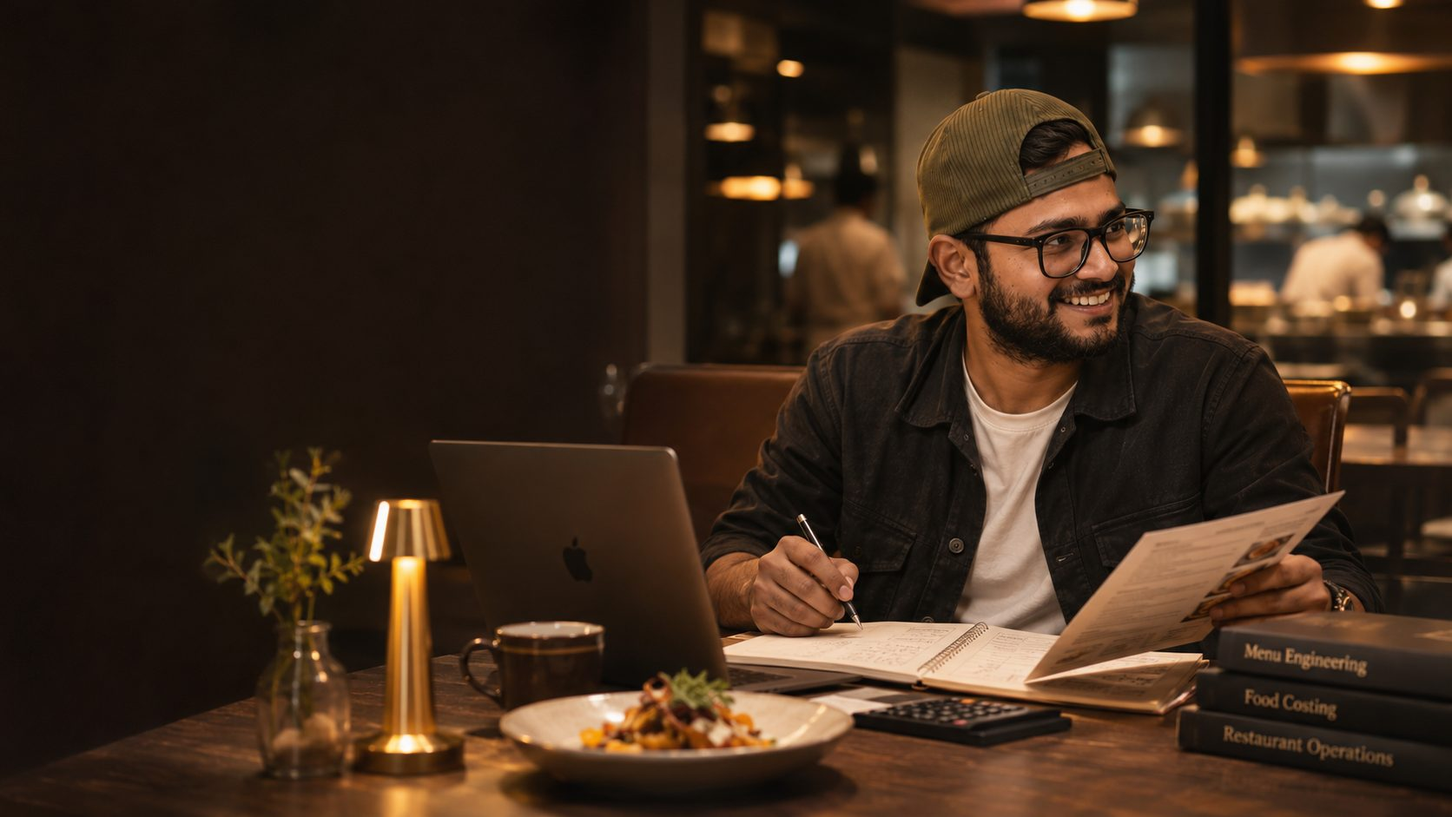
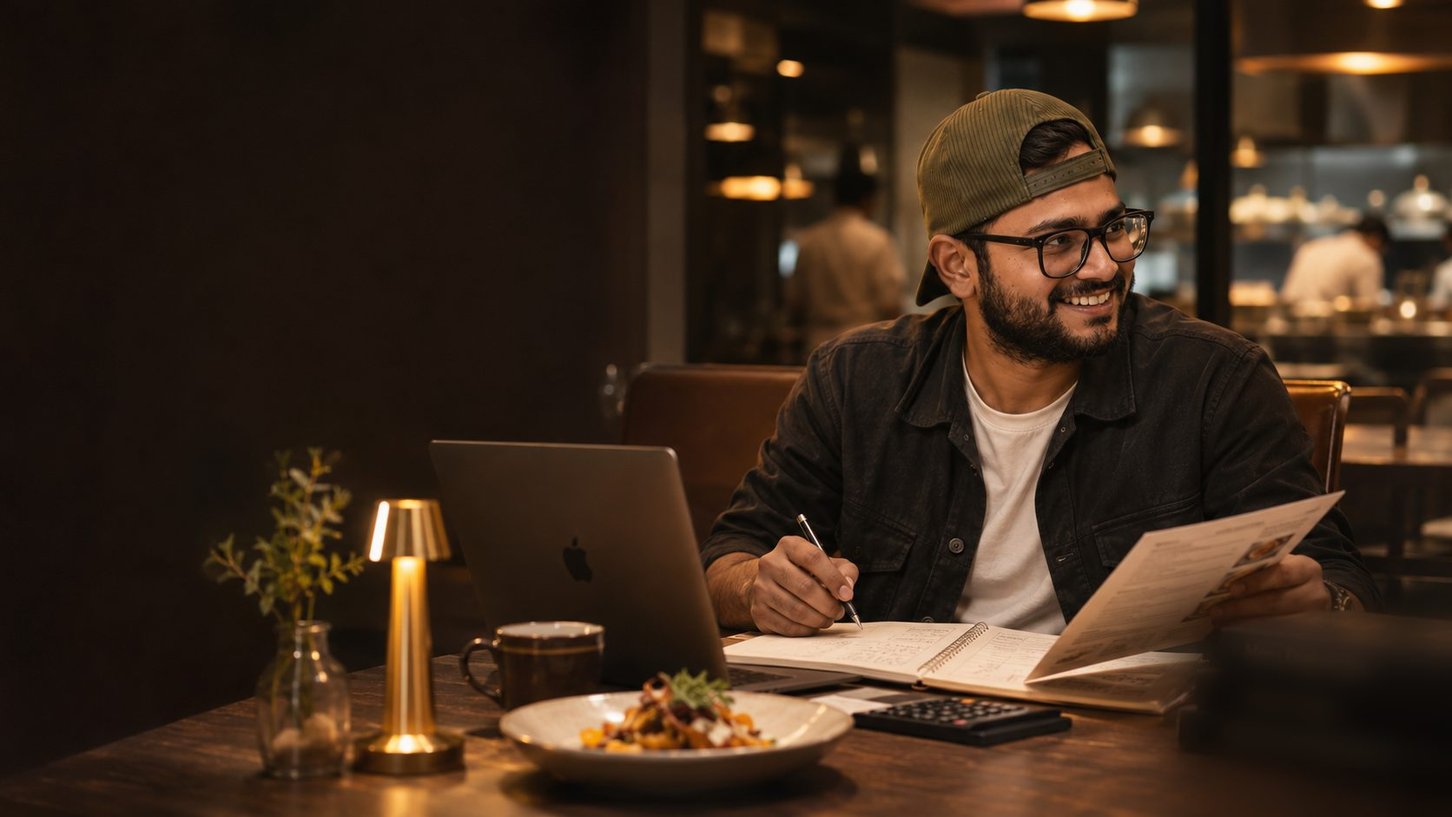
home-v2: final refinement — X-ray illustration, Lenis, tighter copy
- Animated 'menu X-ray' illustration: scan line reads a menu and each dish
  moves into its matrix quadrant; plays once, replay button, static for
  reduced motion
- Lenis 1.3.27 (self-hosted): wheel smoothing only, touch native, off for
  prefers-reduced-motion, anchors respect the sticky header
- Once-only scroll reveals and a drawn line through the audit steps
- Hero: one-sentence intro, lighter overlay on the founder, book spines
  softened in the image; phones stack the photo above the text
- Copy shortened across audit, pricing and FAQ, keeping every disclaimer
- Internal changelog moved out of the public site

Claude-Session: https://claude.ai/code/session_01U5BBhQsZ4QTMWnBKWSbrBi

Changed region(s): [[0.7775, 0.678, 1.0, 1.0], [0.9952, 0.8629, 1.0, 0.8937]]

diff --git a/home-v2/index.html b/home-v2/index.html
@@ -18,7 +18,8 @@
 :root{--bg:#f3eee6;--bg2:#ebe4d8;--paper:#faf7f2;--ink:#1c1915;--night:#171411;--muted:#6a6157;--line:rgba(28,25,21,.14);--brass:#946f3e;--brass-l:#d2b487;--gain:#1E3027;--leak:#A65E49;
   --serif:"Newsreader",Georgia,serif;--sans:"Instrument Sans",system-ui,-apple-system,"Segoe UI",sans-serif}
 *{box-sizing:border-box}
-html{scroll-behavior:smooth;-webkit-text-size-adjust:100%}
+html{scroll-behavior:smooth;scroll-padding-top:76px;-webkit-text-size-adjust:100%}
+html.lenis,html.lenis body{height:auto}.lenis.lenis-smooth{scroll-behavior:auto!important}.lenis.lenis-stopped{overflow:clip}
 body{margin:0;background:var(--bg);color:var(--ink);font:400 16px/1.6 var(--sans);-webkit-font-smoothing:antialiased}
 a{color:inherit}img{max-width:100%;display:block;height:auto}
 h1,h2,h3{font-family:var(--serif);font-weight:300;letter-spacing:-.02em;margin:0}
@@ -47,8 +48,8 @@ section{padding:112px 0}
 /* hero */
 .hero{padding:0;position:relative;overflow:hidden;background:var(--night);color:var(--bg);min-height:min(88vh,820px);display:flex;align-items:flex-end}
 .hero picture,.hero picture img{position:absolute;inset:0;width:100%;height:100%;object-fit:cover;object-position:70% 30%}
-.hero picture img{filter:brightness(.82) saturate(.78);transform:scale(1.012)}
-.hero::after{content:"";position:absolute;inset:0;background:linear-gradient(90deg,rgba(23,20,17,.94) 0%,rgba(23,20,17,.82) 45%,rgba(23,20,17,.42) 100%),linear-gradient(0deg,rgba(23,20,17,.78),rgba(23,20,17,.10) 58%,rgba(23,20,17,.18) 100%)}
+.hero picture img{filter:brightness(.9) saturate(.88)}
+.hero::after{content:"";position:absolute;inset:0;background:radial-gradient(ellipse 38% 42% at 100% 100%,rgba(23,20,17,.92),rgba(23,20,17,0) 100%),linear-gradient(90deg,rgba(23,20,17,.93) 0%,rgba(23,20,17,.78) 40%,rgba(23,20,17,.18) 72%,rgba(23,20,17,.05) 100%),linear-gradient(0deg,rgba(23,20,17,.72),rgba(23,20,17,0) 40%)}
 .hero .wrap{position:relative;z-index:1;padding-top:120px;padding-bottom:72px;width:100%}
 .hero .label{color:var(--brass-l)}
 .hero h1{font-size:clamp(46px,6.4vw,92px);line-height:.98;margin:22px 0 0;max-width:12ch}
@@ -152,6 +153,37 @@ footer nav{display:flex;gap:22px;flex-wrap:wrap}
 footer a{color:#cfc6ba;text-decoration:none}footer a:hover{color:var(--bg)}
 
 .mcta{display:none}
+
+/* X-ray illustration */
+.xr{margin:0}
+.xr svg{width:100%;height:auto;display:block;overflow:visible}
+.xr .t-k{font:600 9px/1 var(--sans);letter-spacing:.24em;fill:#6a6157}
+.xr .t-d{font:400 13px/1 var(--serif);fill:#1c1915}
+.xr .t-p{font:500 11px/1 var(--sans);fill:#6a6157;font-variant-numeric:tabular-nums}
+.xr .t-ax{font:600 8.5px/1 var(--sans);letter-spacing:.2em;fill:#6a6157}
+.xr .t-q{font:600 9.5px/1 var(--sans);letter-spacing:.2em}
+.xr .t-a{font:italic 400 12px/1 var(--serif);fill:#6a6157}
+.xr .scan{transform:translateY(22px);opacity:0}
+.xr.run .scan{opacity:1;animation:xrScan 2.6s cubic-bezier(.45,0,.35,1) forwards}
+@keyframes xrScan{from{transform:translateY(22px)}to{transform:translateY(418px)}}
+.xr .tick{opacity:0;transition:opacity .3s}
+.xr .tick.on{opacity:1}
+.xr .dot{opacity:0;transition:transform .95s cubic-bezier(.65,0,.25,1),opacity .25s}
+.xr .dot.on{opacity:1}
+.xr .ql text,.xr .qb{opacity:.0;transition:opacity .6s}
+.xr.done .ql text{opacity:1}.xr.done .qb{opacity:1}
+.xr figcaption{font-size:12px;color:var(--muted);margin-top:12px;display:flex;justify-content:space-between;gap:12px}
+.replay{all:unset;cursor:pointer;font:600 10px/1 var(--sans);letter-spacing:.16em;text-transform:uppercase;color:var(--ink);border-bottom:1px solid var(--line);padding-bottom:3px}
+.replay:focus-visible{outline:2px solid var(--brass);outline-offset:3px}
+
+/* reveal on scroll: once, subtle, below the hero only */
+.js .rv{opacity:0;transform:translateY(14px);transition:opacity .6s ease,transform .6s cubic-bezier(.2,.7,.2,1)}
+.js .rv.in{opacity:1;transform:none}
+.js .flow>div{border-top-color:transparent;position:relative}
+.js .flow>div::before{content:"";position:absolute;left:0;right:0;top:-1px;height:1px;background:var(--ink);transform:scaleX(0);transform-origin:left;transition:transform .9s cubic-bezier(.65,0,.25,1)}
+.js .flow.in>div::before{transform:scaleX(1)}
+.js .flow.in>div:nth-child(2)::before{transition-delay:.25s}.js .flow.in>div:nth-child(3)::before{transition-delay:.5s}
+@media (prefers-reduced-motion:reduce){.js .rv{opacity:1;transform:none}.js .flow>div::before{transform:none}.xr .scan{display:none}.xr .dot,.xr .tick,.xr .ql text,.xr .qb{opacity:1!important;transition:none}}
 @media (max-width:960px){
   section{padding:80px 0}
   .matrix .wrap,.audit .top,.changes,.founder .wrap,.close .wrap{grid-template-columns:1fr;gap:44px}
@@ -163,9 +195,12 @@ footer a{color:#cfc6ba;text-decoration:none}footer a:hover{color:var(--bg)}
 }
 @media (max-width:600px){
   .wrap{padding:0 16px}
-  .hero{min-height:auto}
-  .hero::after{background:linear-gradient(0deg,rgba(23,20,17,.97) 25%,rgba(23,20,17,.82) 72%,rgba(23,20,17,.58) 100%)}
-  .hero .wrap{padding-top:200px;padding-bottom:48px}
+  .hero{min-height:0;display:block}
+  .hero picture{position:relative;display:block;height:auto}
+  .hero picture img{position:relative;height:auto;aspect-ratio:1/1;object-position:62% 32%;filter:none}
+  .hero::after{inset:0 0 auto 0;height:100vw;background:linear-gradient(0deg,#171411 0%,rgba(23,20,17,0) 42%)}
+  .hero .wrap{padding-top:0;margin-top:-64px;padding-bottom:48px}
+  .hero h1{font-size:44px}
   .hero .btn{width:100%}
   .trust{gap:10px 20px}
   .quad div{padding-right:12px}.quad div:nth-child(even){padding-left:12px}.quad b{font-size:19px}
@@ -179,6 +214,7 @@ footer a{color:#cfc6ba;text-decoration:none}footer a:hover{color:var(--bg)}
 </style>
 </head>
 <body>
+<script>document.documentElement.classList.add("js")</script>
 
 <header class="nav">
   <div class="wrap">
@@ -200,7 +236,7 @@ footer a{color:#cfc6ba;text-decoration:none}footer a:hover{color:var(--bg)}
     <div class="wrap">
       <span class="label">Chef-led menu profitability · Dubai, UAE</span>
       <h1>What sells isn't always what <em>earns.</em></h1>
-      <p>We help independent restaurants understand what each dish contributes, where margin is being lost and what to change next. Start with a free menu check. For a proper dish-by-dish profitability review, we work with your actual sales and recipe costs.</p>
+      <p>We show you which dishes earn, which only sell, and what to change next. Start with a free menu check.</p>
       <div class="ctas">
         <a class="btn light" href="../app/start">Get a free menu check <span aria-hidden="true">→</span></a>
         <a class="btn ghost" href="#audit">See the audit</a>
@@ -215,18 +251,40 @@ footer a{color:#cfc6ba;text-decoration:none}footer a:hover{color:var(--bg)}
       <div>
         <span class="label">The problem</span>
         <h2 class="h2">A bestseller can still be a <em>margin problem.</em></h2>
-        <p class="lede">Popularity and contribution are different measures. A dish can drive volume while leaving too little behind after its direct costs. With item-level sales and recipe data, we put both measures side by side and give each dish a clear commercial role.</p>
-        <div class="quad">
+        <p class="lede">Popularity and earnings are different numbers. A dish can sell all night and still leave too little after food cost. We plot both, so every dish gets a clear job.</p>
+        <div class="quad rv">
           <div><b>Stars</b><small>Popular and profitable.</small><i class="c-star">Protect</i></div>
           <div><b>Plowhorses</b><small>Popular, thin margin.</small><i class="c-plow">Re-cost</i></div>
           <div><b>Puzzles</b><small>Profitable, overlooked.</small><i class="c-puz">Promote</i></div>
           <div><b>Dogs</b><small>Neither.</small><i class="c-dog">Rework or retire</i></div>
         </div>
       </div>
-      <div class="plates">
-        <img src="../assets/img/plates-matrix.webp" width="1376" height="768" alt="Four plated dishes on linen arranged in a grid, representing the four kinds of dish." loading="lazy">
-        <span style="left:8%;top:8%">Puzzle</span><span style="right:8%;top:8%">Star</span><span style="left:8%;bottom:8%">Dog</span><span style="right:8%;bottom:8%">Plowhorse</span>
-      </div>
+      <figure class="xr" id="xr" aria-label="Illustration: a menu is scanned and each dish moves into one of four groups: Stars, Plowhorses, Puzzles and Dogs.">
+        <svg viewBox="0 0 600 440" role="img" aria-hidden="true">
+          <defs><linearGradient id="scanG" x1="0" y1="0" x2="0" y2="1"><stop offset="0" stop-color="#d2b487" stop-opacity="0"/><stop offset="1" stop-color="#d2b487" stop-opacity=".55"/></linearGradient><clipPath id="cardClip"><rect x="12" y="22" width="216" height="396"/></clipPath></defs>
+          <rect x="12" y="22" width="216" height="396" fill="#faf7f2" stroke="#1c1915" stroke-opacity=".18"/>
+          <text x="120" y="56" text-anchor="middle" class="t-k">DINNER MENU</text>
+          <line x1="40" y1="70" x2="200" y2="70" stroke="#1c1915" stroke-opacity=".14"/>
+          <g class="lines"></g>
+          <g clip-path="url(#cardClip)"><g class="scan"><rect x="12" y="-46" width="216" height="46" fill="url(#scanG)"/><line x1="12" y1="0" x2="228" y2="0" stroke="#946f3e" stroke-width="1.5"/></g></g>
+          <g class="grid">
+            <rect x="282" y="30" width="306" height="364" fill="none" stroke="#1c1915" stroke-opacity=".22"/>
+            <rect class="qb" x="282" y="30" width="153" height="182" fill="#3f5e75" fill-opacity=".06"/><rect class="qb" x="435" y="30" width="153" height="182" fill="#1E3027" fill-opacity=".07"/>
+            <rect class="qb" x="282" y="212" width="153" height="182" fill="#A65E49" fill-opacity=".06"/><rect class="qb" x="435" y="212" width="153" height="182" fill="#946f3e" fill-opacity=".07"/>
+            <line x1="435" y1="30" x2="435" y2="394" stroke="#1c1915" stroke-dasharray="3 4" stroke-opacity=".5"/><line x1="282" y1="212" x2="588" y2="212" stroke="#1c1915" stroke-dasharray="3 4" stroke-opacity=".5"/>
+            <text x="435" y="420" text-anchor="middle" class="t-ax">SELLS →</text>
+            <text transform="translate(268 212) rotate(-90)" text-anchor="middle" class="t-ax">EARNS PER DISH →</text>
+          </g>
+          <g class="ql">
+            <text x="294" y="52" class="t-q" fill="#3f5e75">PUZZLES</text><text x="294" y="68" class="t-a">Promote</text>
+            <text x="576" y="52" text-anchor="end" class="t-q" fill="#1E3027">STARS</text><text x="576" y="68" text-anchor="end" class="t-a">Protect</text>
+            <text x="294" y="368" class="t-q" fill="#A65E49">DOGS</text><text x="294" y="384" class="t-a">Rework or retire</text>
+            <text x="576" y="368" text-anchor="end" class="t-q" fill="#8a6a33">PLOWHORSES</text><text x="576" y="384" text-anchor="end" class="t-a">Re-cost</text>
+          </g>
+          <g class="dots"></g>
+        </svg>
+        <figcaption>Illustration of how we sort a menu. Not client data. <button type="button" class="replay" id="xrReplay">Replay</button></figcaption>
+      </figure>
     </div>
   </section>
 
@@ -235,20 +293,20 @@ footer a{color:#cfc6ba;text-decoration:none}footer a:hover{color:var(--bg)}
     <div class="wrap">
       <div class="top">
         <div><span class="label">The Menu Profit Boost Audit</span><h2 class="h2">One audit. A clear decision for <em>every dish.</em></h2></div>
-        <p class="lede" style="margin:0">A fixed-scope review of one outlet and its agreed menu, using your actual sales mix, recipe specifications and current ingredient costs. Typically delivered in about 10 working days once complete data is received.</p>
+        <p class="lede" style="margin:0">A fixed-scope review of one outlet's menu, using your real sales, recipes and ingredient costs. About 10 working days once we have the data.</p>
       </div>
-      <div class="flow">
-        <div><span class="n">01</span><h3>You share</h3><ul><li>Current menu and sales channels</li><li>8–13 weeks of item-level POS sales</li><li>Recipe cards: quantities, portions and yields</li><li>Current supplier prices or invoices</li><li>Delivery commissions and packaging costs, if relevant</li></ul></div>
-        <div><span class="n">02</span><h3>We analyse</h3><ul><li>Popularity, sales mix and contribution</li><li>Recipe cost, pricing and channel economics</li><li>Kitchen complexity and ingredient cross-use</li><li>Menu balance and category performance</li></ul></div>
-        <div><span class="n">03</span><h3>You receive</h3><ul><li>Keep, reprice, reposition, rework or retire decisions</li><li>Dish-level contribution workbook and menu matrix</li><li>Prioritised action plan and written report</li><li>Excel model and founder review call</li></ul></div>
+      <div class="flow rv">
+        <div><span class="n">01</span><h3>You share</h3><ul><li>Your current menu</li><li>8–13 weeks of item sales from your POS</li><li>Recipe cards with portions and yields</li><li>Supplier prices, and delivery commissions if relevant</li></ul></div>
+        <div><span class="n">02</span><h3>We analyse</h3><ul><li>What sells, and what each dish earns</li><li>Recipe cost and pricing, by channel</li><li>Kitchen complexity and shared ingredients</li><li>Balance across each menu section</li></ul></div>
+        <div><span class="n">03</span><h3>You receive</h3><ul><li>A decision for every dish</li><li>Menu matrix and contribution workbook</li><li>A prioritised action plan and report</li><li>A review call with Piyush</li></ul></div>
       </div>
-      <div class="changes">
+      <div class="changes rv">
         <a href="../assets/sample/PIHOCO-sample-audit.pdf" aria-label="Download the sample audit (PDF)"><img src="../assets/img/report-1.webp" width="900" height="1273" alt="Cover of a PIHOCO sample audit report." loading="lazy"></a>
         <div>
-          <span class="label">The decisions the audit is built to support</span>
-          <ol><li>Protect dishes that combine strong demand and contribution.</li><li>Recalibrate prices against contribution, demand and positioning.</li><li>Rework recipes, portions or garnishes where the numbers justify it.</li><li>Retire weak dishes when the commercial and operational case is clear.</li></ol>
+          <span class="label">The decisions it leads to</span>
+          <ol><li>Protect what sells and earns.</li><li>Reprice where the numbers allow.</li><li>Rework a recipe, portion or garnish.</li><li>Retire what costs more than it gives.</li></ol>
           <div class="assure"><span>Exports only · no POS login</span><span>NDA available</span><span>One outlet · scope agreed upfront</span></div>
-          <p style="margin-top:16px;color:var(--muted);font-size:13px">We calculate dish-level contribution using the direct costs agreed in the project scope. This is menu analysis, not a statutory financial audit or a calculation of net profit after rent, payroll and all overheads.</p>
+          <p style="margin-top:16px;color:var(--muted);font-size:13px">Contribution is calculated from the direct costs agreed in scope. It is menu analysis, not a financial audit or net profit after rent and payroll.</p>
           <p style="margin-top:22px"><a class="tlink" href="../assets/sample/PIHOCO-sample-audit.pdf">Download the sample audit (PDF) →</a></p>
         </div>
       </div>
@@ -262,27 +320,27 @@ footer a{color:#cfc6ba;text-decoration:none}footer a:hover{color:var(--bg)}
         <div><span class="label">Pricing</span><h2 class="h2">Start free. Pay when it's <em>worth it.</em></h2></div>
         <div class="cur" role="group" aria-label="Currency"><button data-cur="USD" aria-pressed="true">USD</button><button data-cur="AED" aria-pressed="false">AED</button><button data-cur="GBP" aria-pressed="false">GBP</button><button data-cur="SGD" aria-pressed="false">SGD</button></div>
       </div>
-      <div class="tiers">
+      <div class="tiers rv">
         <div class="tier">
           <span class="label">01 · 60 seconds</span><h3>Menu check</h3>
-          <div class="price">Free</div><p class="note">Instant preliminary check using your published menu.</p>
-          <ul><li>Menu structure and pricing observations</li><li>Menu health score and three potential opportunities</li><li>Dish-description improvements</li><li>Local price context where benchmark coverage is sufficient</li></ul>
+          <div class="price">Free</div><p class="note">An instant first look at your published menu.</p>
+          <ul><li>Menu score and three opportunities</li><li>Pricing and layout observations</li><li>Better dish descriptions</li><li>Local price context, where we have data</li></ul>
           <a class="btn ghost" href="../app/start">Check my menu</a>
         </div>
         <div class="tier hi">
           <span class="label">02 · About 10 working days</span><h3>Menu Profit Boost Audit</h3>
-          <div class="price num"><span data-p="audit0">USD 750</span><s data-p="audit1">USD 1,200</s></div><p class="note">Founding rate for the first five paid audit engagements, with outlet, menu size and deliverables agreed in writing before payment.</p>
-          <ul><li>Dish-level contribution based on supplied data</li><li>Menu engineering matrix by category</li><li>Repricing and recipe recommendations</li><li>Kitchen complexity and cross-utilisation review</li><li>Prioritised report, Excel model and founder review</li></ul>
+          <div class="price num"><span data-p="audit0">USD 750</span><s data-p="audit1">USD 1,200</s></div><p class="note">Founding rate for the first five audits. Scope agreed in writing before payment.</p>
+          <ul><li>What every dish earns, from your data</li><li>Menu matrix for each section</li><li>Pricing and recipe recommendations</li><li>Kitchen complexity review</li><li>Report, Excel model and review call</li></ul>
           <a class="btn light" href="#contact" data-pick="Menu Profit Boost Audit">Request the audit</a>
         </div>
         <div class="tier">
           <span class="label">03 · 5 weeks</span><h3>Menu Engineering Sprint</h3>
-          <div class="price num"><span data-p="sprint0">USD 2,500</span><s data-p="sprint1">USD 3,800</s></div><p class="note">A separately scoped implementation engagement, following an audit or equivalent data review.</p>
+          <div class="price num"><span data-p="sprint0">USD 2,500</span><s data-p="sprint1">USD 3,800</s></div><p class="note">After the audit, we help you make the changes. Scoped separately.</p>
           <ul><li>Repricing and dish re-engineering</li><li>New menu copy and layout brief</li><li>Staff talking points</li><li>30-day results check</li></ul>
           <a class="btn ghost" href="#contact" data-pick="Menu Engineering Sprint">Ask about a sprint</a>
         </div>
       </div>
-      <p class="pnote">Founding rates apply to the first five paid audit engagements only. Final scope, menu size, outlet count, data readiness and any additional work are confirmed in a written proposal before payment. Multi-site groups are scoped separately.</p>
+      <p class="pnote">Founding rates apply to the first five paid audits. Scope, menu size and data are confirmed in a written proposal before payment. Multi-site groups are scoped separately.</p>
     </div>
   </section>
 
@@ -305,12 +363,12 @@ footer a{color:#cfc6ba;text-decoration:none}footer a:hover{color:var(--bg)}
       <div>
         <span class="label">Questions</span>
         <h2 class="h2" style="margin-bottom:28px">Before you <em>ask.</em></h2>
-        <details><summary>Do you need access to our POS?</summary><p>No. We work from exports; we do not need a live POS login, guest records or payment-card data. Ideally, share 8–13 weeks of item-level sales by outlet and channel.</p></details>
-        <details><summary>We don't have clean cost data. Can we start?</summary><p>We can help rebuild recipe costings from recipe specifications, portion quantities, yields and current supplier prices. If item-level sales data is missing, we can still do a menu and pricing review, but we cannot produce a reliable popularity-versus-contribution matrix or call it a full menu engineering audit.</p></details>
-        <details><summary>Can you calculate actual profitability from a menu photo?</summary><p>No. A menu photo can support a preliminary review of structure, descriptions and published prices. Verified dish-level contribution requires item-level sales, recipe quantities and yields, and current ingredient costs. We distinguish estimates from calculations based on your operating data.</p></details>
-        <details><summary>Do you guarantee a specific profit increase?</summary><p>No. We identify and prioritise evidence-based opportunities; actual results depend on execution, customer response, purchasing, operations and other factors. We do not promise a fixed revenue or profit uplift.</p></details>
-        <details><summary>What happens to our data?</summary><p>Your project data is used only for the engagement and handled under the agreed confidentiality terms. The retention period and deletion process follow our <a href="../privacy.html">Privacy Policy</a> and any signed NDA. Nothing is published without your written approval.</p></details>
-        <details><summary>Do you work outside the UAE?</summary><p>Dubai and the UAE are our primary market. We take selected UK and Singapore engagements remotely; local price benchmarking is only included where we have enough relevant, current comparison data. Other markets are assessed case by case.</p></details>
+        <details><summary>Do you need access to our POS?</summary><p>No. We work from exports: 8–13 weeks of item-level sales. No POS login, guest records or card data.</p></details>
+        <details><summary>We don't have clean cost data. Can we start?</summary><p>Yes. We can rebuild recipe costings with your chef from portions, yields and supplier prices. Without item-level sales we can still review the menu and pricing, but not build a full matrix.</p></details>
+        <details><summary>Can you calculate actual profitability from a menu photo?</summary><p>No. A photo supports a first look at layout, descriptions and prices. Real dish earnings need your sales, recipes and ingredient costs, and we always say which is which.</p></details>
+        <details><summary>Do you guarantee a specific profit increase?</summary><p>No. We find and rank the opportunities your data supports. Results depend on how changes are made and how guests respond, so we never promise a fixed uplift.</p></details>
+        <details><summary>What happens to our data?</summary><p>It is used only for your project, under the agreed confidentiality terms, our <a href="../privacy.html">Privacy Policy</a> and any NDA. Nothing is published without your written approval.</p></details>
+        <details><summary>Do you work outside the UAE?</summary><p>Dubai and the UAE come first. We take selected UK and Singapore projects remotely. Local price comparisons are included only where we have enough current data.</p></details>
       </div>
       <form class="form" id="enq" novalidate>
         <span class="label" style="color:var(--brass-l)">Contact</span>
@@ -318,7 +376,7 @@ footer a{color:#cfc6ba;text-decoration:none}footer a:hover{color:var(--bg)}
         <p class="s">We reply within one working day.</p>
         <input type="checkbox" name="botcheck" class="hp" tabindex="-1" autocomplete="off">
         <div class="row"><label><span>Name</span><input name="name" required autocomplete="name"></label><label><span>Email</span><input type="email" name="email" required autocomplete="email"></label></div>
-        <div class="row"><label><span>Restaurant and city</span><input name="venue" placeholder="e.g. Olive Room, Dubai"></label><label><span>Interested in</span><select name="interest" id="interest"><option>Menu Profit Boost Audit</option><option>Menu Engineering Sprint</option><option>Retainer</option><option>Not sure yet</option></select></label></div>
+        <div class="row"><label><span>Restaurant and city</span><input name="venue" placeholder="e.g. Olive Room, Dubai"></label><label><span>Interested in</span><select name="interest" id="interest"><option>Menu Profit Boost Audit</option><option>Menu Engineering Sprint</option><option>Not sure yet</option></select></label></div>
         <label><span>Anything we should know? (optional)</span><textarea name="message"></textarea></label>
         <button class="btn light" type="submit">Send</button>
         <div class="ok" id="ok" role="status"></div>
@@ -360,6 +418,78 @@ footer a{color:#cfc6ba;text-decoration:none}footer a:hover{color:var(--bg)}
   });
   var hero=document.querySelector(".hero .btn"),m=document.getElementById("mcta");
   if("IntersectionObserver" in window&&hero)new IntersectionObserver(function(e){m.classList.toggle("on",!e[0].isIntersecting&&e[0].boundingClientRect.top<0);}).observe(hero);
+})();
+</script>
+<script src="../assets/js/vendor/lenis-1.3.27.min.js" defer></script>
+<script>
+(function(){
+  var reduce = window.matchMedia && matchMedia("(prefers-reduced-motion: reduce)").matches;
+
+  /* Smooth wheel scrolling (desktop only; touch stays native). Off for reduced motion. */
+  window.addEventListener("load", function(){
+    if (reduce || !window.Lenis) return;
+    try { window.lenis = new Lenis({ autoRaf:true, lerp:0.12, smoothWheel:true, syncTouch:false, anchors:true }); } catch(e) {}
+  });
+
+  /* Reveal once on scroll */
+  var rv = document.querySelectorAll(".rv");
+  if ("IntersectionObserver" in window && !reduce) {
+    var io = new IntersectionObserver(function(es){ es.forEach(function(e){ if (e.isIntersecting){ e.target.classList.add("in"); io.unobserve(e.target); } }); }, { rootMargin:"0px 0px -12% 0px" });
+    rv.forEach(function(el){ io.observe(el); });
+  } else rv.forEach(function(el){ el.classList.add("in"); });
+
+  /* Menu X-ray illustration */
+  var fig = document.getElementById("xr"); if (!fig) return;
+  var NS = "http://www.w3.org/2000/svg";
+  var C = { Star:"#1E3027", Plowhorse:"#8a6a33", Puzzle:"#3f5e75", Dog:"#A65E49" };
+  var dishes = [
+    ["Grilled chicken","72","Star",530,98],
+    ["Classic burger","68","Plowhorse",548,290],
+    ["Sea bass","96","Puzzle",332,112],
+    ["Truffle fries","32","Star",482,160],
+    ["Burrata salad","58","Dog",352,300],
+    ["Lemon tart","40","Puzzle",392,170],
+    ["Iced latte","26","Plowhorse",478,336]
+  ];
+  var gl = fig.querySelector(".lines"), gd = fig.querySelector(".dots"), ticks = [], dots = [];
+  function el(n, a){ var e = document.createElementNS(NS, n); for (var k in a) e.setAttribute(k, a[k]); return e; }
+  dishes.forEach(function(d, i){
+    var y = 104 + i * 44;
+    var t = el("text", { x:36, y:y, "class":"t-d" }); t.textContent = d[0]; gl.appendChild(t);
+    var pr = el("text", { x:204, y:y, "text-anchor":"end", "class":"t-p" }); pr.textContent = d[1]; gl.appendChild(pr);
+    gl.appendChild(el("line", { x1:36, y1:y+14, x2:204, y2:y+14, stroke:"#1c1915", "stroke-opacity":".08" }));
+    var tk = el("rect", { x:24, y:y-9, width:3, height:11, fill:C[d[2]], "class":"tick" }); gl.appendChild(tk); ticks.push(tk);
+    var dot = el("circle", { cx:d[3], cy:d[4], r:7, fill:C[d[2]], "class":"dot" });
+    var ttl = el("title", {}); ttl.textContent = d[0] + ": " + d[2]; dot.appendChild(ttl);
+    dot.dataset.dx = (212 - d[3]); dot.dataset.dy = (y - 4 - d[4]);
+    gd.appendChild(dot); dots.push(dot);
+  });
+  var timers = [];
+  function reset(){
+    timers.forEach(clearTimeout); timers = [];
+    fig.classList.remove("run","done");
+    ticks.forEach(function(t){ t.classList.remove("on"); });
+    dots.forEach(function(d){ d.style.transition = "none"; d.classList.remove("on"); d.style.transform = "translate(" + d.dataset.dx + "px," + d.dataset.dy + "px)"; });
+    void fig.offsetWidth;
+    dots.forEach(function(d){ d.style.transition = ""; });
+  }
+  function finalState(){ fig.classList.add("done"); ticks.forEach(function(t){ t.classList.add("on"); }); dots.forEach(function(d){ d.classList.add("on"); d.style.transform = "none"; }); }
+  function play(){
+    reset(); fig.classList.add("run");
+    dishes.forEach(function(d, i){
+      var at = 260 + i * 330; /* scan reaches each line */
+      timers.push(setTimeout(function(){ ticks[i].classList.add("on"); dots[i].classList.add("on"); }, at));
+      timers.push(setTimeout(function(){ dots[i].style.transform = "none"; }, at + 260));
+    });
+    timers.push(setTimeout(function(){ fig.classList.add("done"); }, 260 + dishes.length * 330 + 900));
+  }
+  if (reduce || !("IntersectionObserver" in window)) { finalState(); }
+  else {
+    reset();
+    var io2 = new IntersectionObserver(function(es){ if (es[0].isIntersecting){ play(); io2.disconnect(); } }, { threshold:.45 });
+    io2.observe(fig);
+  }
+  document.getElementById("xrReplay").addEventListener("click", function(){ reduce ? finalState() : play(); });
 })();
 </script>
 </body>
